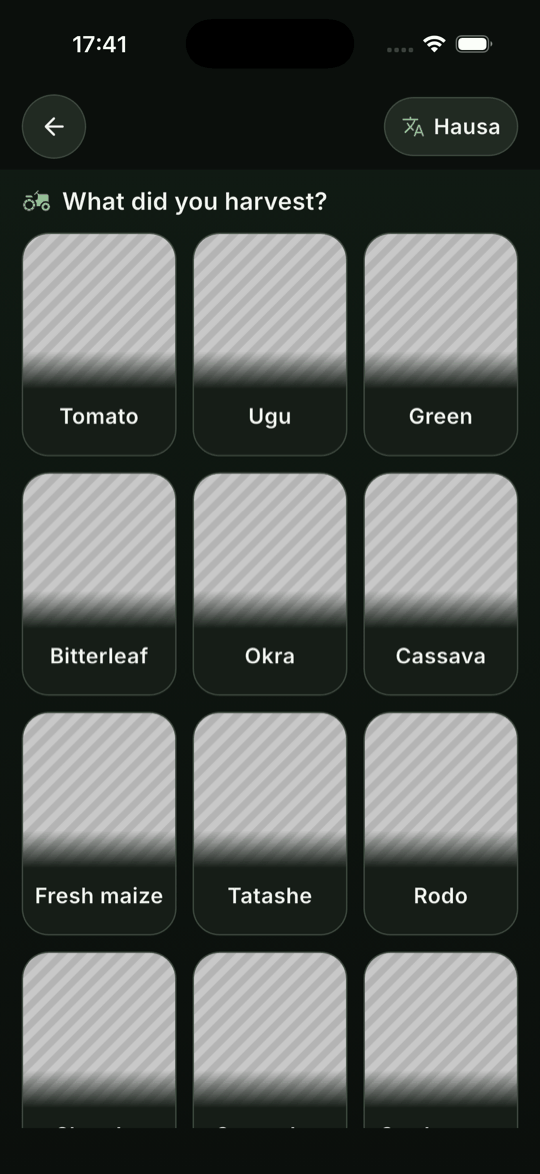
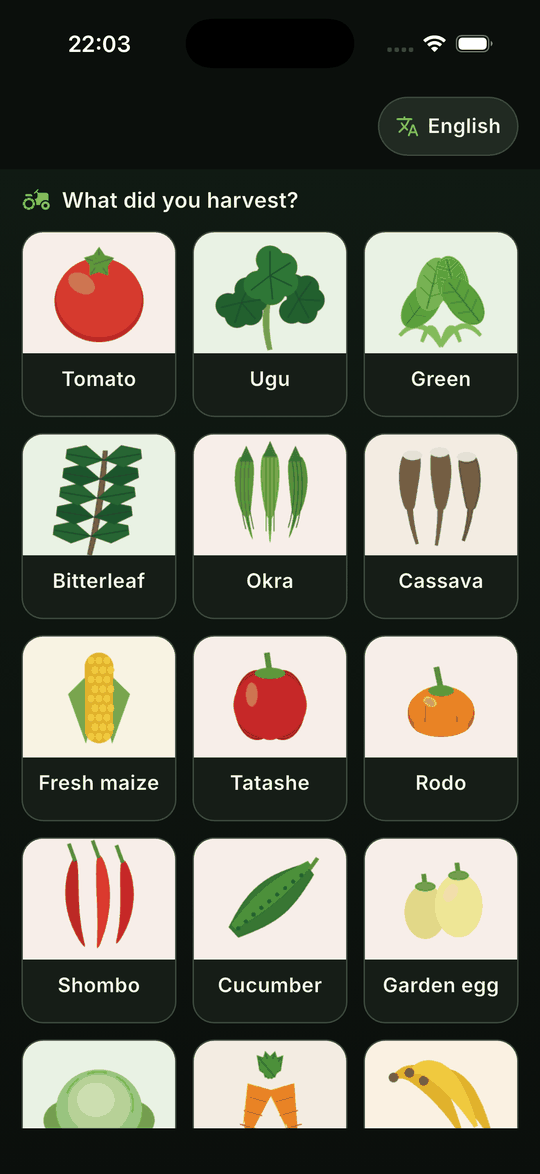
Recapture every screenshot and show the costs and storage courses

diff --git a/app/lib/features/lots/crop_grid_screen.dart b/app/lib/features/lots/crop_grid_screen.dart
@@ -364,38 +364,41 @@ class _CropTile extends StatelessWidget {
                         ),
                       ),
                       /*
-                        A scrim at the foot of the picture.
+                        A scrim at the foot of the picture, in the light theme
+                        only.
 
-                        Not decoration: the label sits directly beneath, and
-                        without it a pale illustration and a pale card meet at a
-                        hard line that reads as two objects rather than one
-                        tile.
+                        Not decoration: there, a pale illustration and a pale
+                        card meet at a hard line that reads as two objects
+                        rather than one tile. In the dark theme they do not meet
+                        at all — the illustration is light and the card is dark,
+                        which is already an edge — and the scrim's own colour
+                        over a light ground produced a grey band that looked
+                        like a rendering fault.
 
-                        Half the height it was, and no longer opaque at the
-                        bottom. It was sized against hatched placeholders, which
-                        had nothing in them to lose; over a drawing it ate the
-                        stems off the okra and the base off the bitterleaf. A
-                        seam is worth softening, not worth a third of the
-                        picture.
+                        Half the height it was, too. It was sized against
+                        hatched placeholders, which had nothing in them to lose;
+                        over a drawing it ate the stems off the okra and the
+                        base off the bitterleaf.
                       */
-                      Positioned(
-                        left: 0,
-                        right: 0,
-                        bottom: 0,
-                        height: 14,
-                        child: DecoratedBox(
-                          decoration: BoxDecoration(
-                            gradient: LinearGradient(
-                              begin: Alignment.topCenter,
-                              end: Alignment.bottomCenter,
-                              colors: [
-                                freshness.raised.withValues(alpha: 0),
-                                freshness.raised.withValues(alpha: 0.75),
-                              ],
+                      if (Theme.of(context).brightness == Brightness.light)
+                        Positioned(
+                          left: 0,
+                          right: 0,
+                          bottom: 0,
+                          height: 14,
+                          child: DecoratedBox(
+                            decoration: BoxDecoration(
+                              gradient: LinearGradient(
+                                begin: Alignment.topCenter,
+                                end: Alignment.bottomCenter,
+                                colors: [
+                                  freshness.raised.withValues(alpha: 0),
+                                  freshness.raised.withValues(alpha: 0.75),
+                                ],
+                              ),
                             ),
                           ),
                         ),
-                      ),
                       if (speaking)
                         /*
                           The only feedback that the sound came from *this*

diff --git a/README.md b/README.md
@@ -188,6 +188,22 @@ arithmetic cannot quietly lose that. Where there is no price the app says *"I do
 not know what this is worth"* and asks, because a number with nothing behind it
 is the most alarming thing it could put on that screen.
 
+<p align="center">
+  <img src="docs/screenshots/11-costs.png" width="250" alt="Costs: what the lorry costs and what share the agent takes, entered by the farmer" />
+  <img src="docs/screenshots/12-storage-offer.png" width="250" alt="A store's quote as a third course, worked out against selling today and against waiting" />
+</p>
+
+Nothing the farmer receives is the number anybody quotes. A lorry has to be paid,
+an agent takes a share, and some of the load arrives bruised — so the app asks,
+and takes those off **every course alike**. Commission is charged on what
+*arrives*, not on what was loaded: charging it on the gross overstates what the
+agent takes and understates what the road does, and those are separate problems
+with separate answers. One is negotiable and the other is a road.
+
+A store's quote then enters as a third course, valued the same way — and on the
+numbers above it loses to selling today, which is the answer a storage company's
+own calculator would be least likely to give.
+
 ### The engine has to be able to be wrong
 
 <p align="center">

diff --git a/CHANGELOG.md b/CHANGELOG.md
@@ -27,6 +27,9 @@ Entries say *why*, not just what.
 
 ### Changed
 
+- **Every README screenshot recaptured**, and two added — the costs screen and a
+  store's quote as a third course, neither of which had ever been shown. The old
+  ten were a tour of grey hatching.
 - **The type scale came down a step** — display 30→26, title 22→19, body 18→16,
   secondary 16→15, with the radii following. The 5" floor sets the *minimum* a
   farmer in sunlight can read; it was being used as an instruction to set
